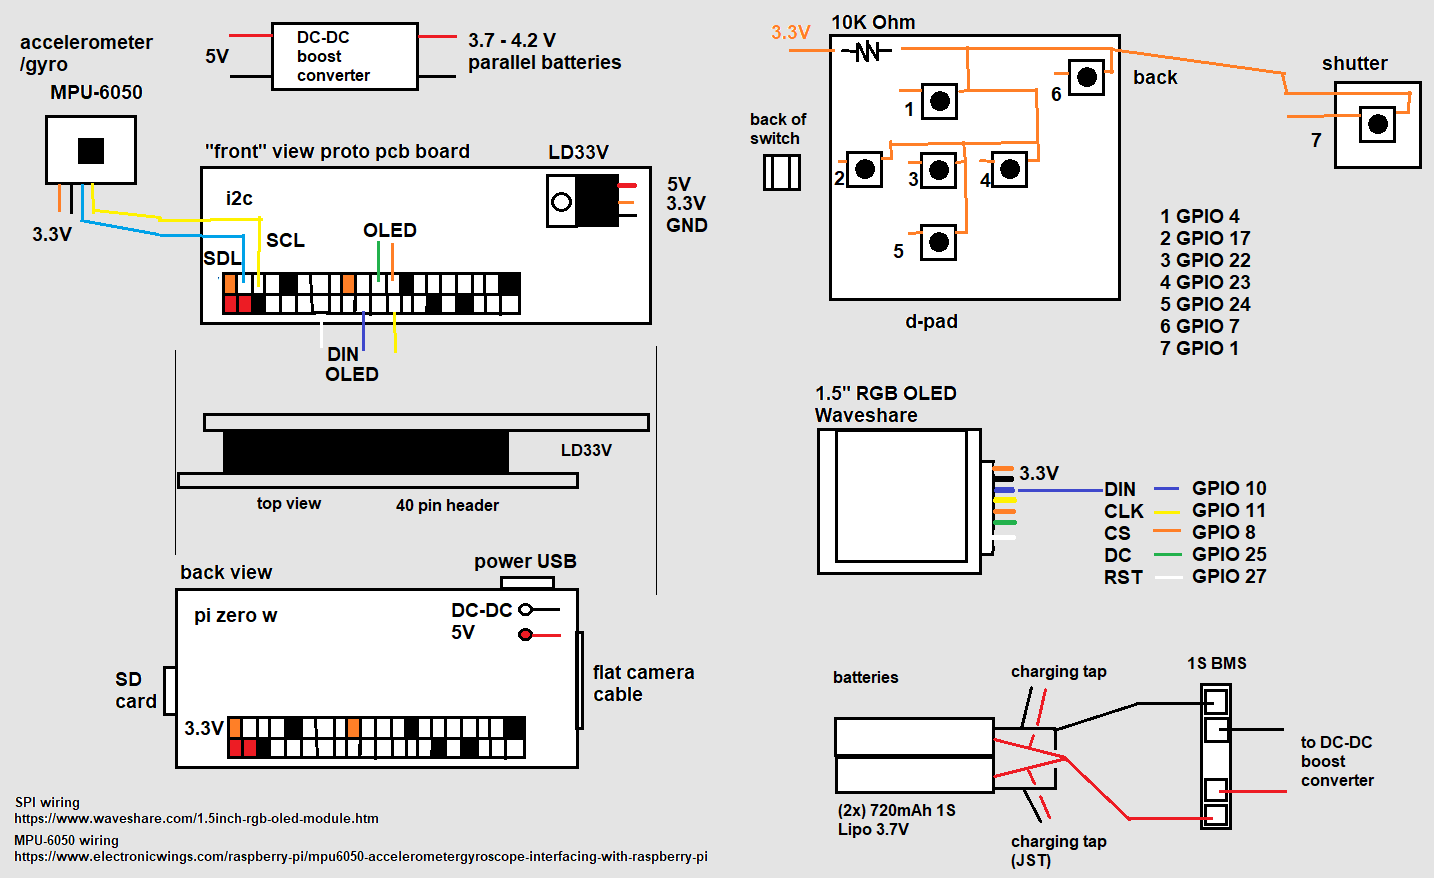
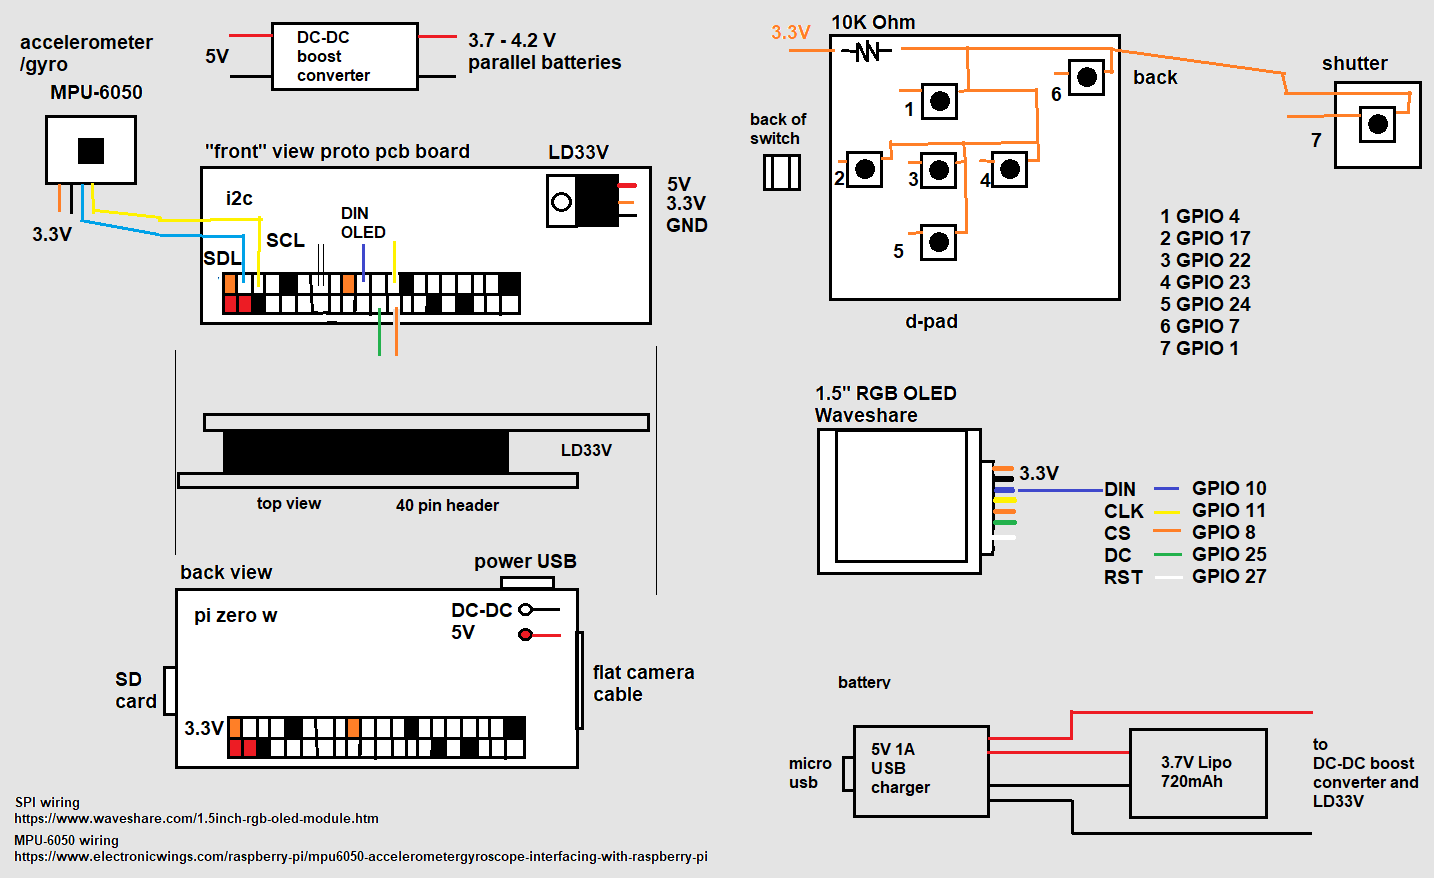
update diagrams, some progress, slowing down

Changed region(s): [[0.5523, 0.738, 1.0, 1.0], [0.2148, 0.2153, 0.3068, 0.4305]]

diff --git a/DEVLOG.md b/DEVLOG.md
@@ -1,3 +1,17 @@
+12/10/2023
+
+1:56 AM
+
+At this point I've gotten a lot of the soldering done, I accidentally mirrored the OLED pins on the RPi GPIO at least they were just digital pins/not live ones eg. 5V or ground.
+
+I still have to finish soldering the buttons and test them
+
+Then update the design with regard to the hardware change and final dimensions
+
+The wiring is nasty unfortunately since the wires I'm using are thick and not grouped together like those ribbon cables that are joined
+
+
+
 12/09/2023
 
 12:47 AM
@@ -201,7 +215,21 @@ I need the body... but I also want to solder everything and program...
 
 ehh.... I think I'll put the JST plugs for the batteries on top of the camera in channels, then you just tape over them with black electrical tape to blend in... ugly but I don't want to make some hinge mechanism or deal with a balancing charger for two parallel cells
 
+11:22 PM
 
+decided to change battery to 2S series, 800mAh it's smaller capacity but easier with regard to wiring/charging run time will be 3-4 hours (absoultely exhausted by 4).
+
+means stepping down too vs. step up, bigger component
+
+I have these 1100mAh packs but they seem puffy despite not being used...
+
+Ugh... idk what to do. I have these USB charging boards, that would be nicer but it's 1 cell... largest 1S pack I have is the 720mAh set... so that's a run time just over 3 hours, but that's continous... I would think it's rare to keep a camera on that long.
+
+turn it on to do your shots, turn it off to walk somewhere
+
+Ugh... this cutoff voltage is too low for a lipo, it cuts off at 2.5V
+
+oh man... alright just so it's more legit I'll use the charging board since that's prettier, USB in but it will still require a time-based battery check
 
 ---
 

diff --git a/TASKLIST.md b/TASKLIST.md
@@ -5,17 +5,14 @@
 - [x] pick digital pins
 - [x] wire oled up (uses 3.3V power)
 
-- [ ] solder DC-DC boost convert to Pi/LD33V
-- [ ] solder OLED to proto board, align with RPi pins
-- [ ] solder LD33V to 10K Ohm resistor for buttons
+- [x] solder DC-DC boost convert to Pi/LD33V
+- [x] solder OLED to proto board, align with RPi pins
+- [x] solder LD33V to 10K Ohm resistor for buttons
 - [ ] solder buttons to proto board, align with RPi pins
-- [ ] solder Y-splitter for battery cells
-  - (2x) JST male plug (for charging)
-  - to 1S BMS for discharge, parallel connected, this goes to DC-DC boost converter 
 
 - [ ] design case
 
-- [ ] test OLED display output
+- [x] test OLED display output
 - [ ] bind buttons to runtime
 - [ ] design menu
 - [ ] build menu rendering state manager

diff --git a/README.md b/README.md
@@ -15,3 +15,7 @@ A pi zero camera body using the hq camera
 $185.00 (using 35mm lens, major components only)
 
 See `/camera/hardware` folder for more info
+
+### Disclaimer
+
+The 5V 1A micro usb charger's discharge cut off is very low around 2.5V so that is not relied upon for safety.

diff --git a/camera/hardware/README.md b/camera/hardware/README.md
@@ -2,8 +2,9 @@
 
 - $15.00 Pi Zero W
 - $75.00 Raspberry Pi HQ Camera
-- $15.00 (2) 720mAh 1S Lipo
+- $2.00 720mAh 1S Lipo
 - $0.80 DC-DC boost converter
+- $0.80 5V 1A usb charger
 - $0.12 LD33V step down converter
 - $19.00 1.5" RGB OLED
 - $60.00 35mm lens

diff --git a/PROJECT_TIME.md b/PROJECT_TIME.md
@@ -1,2 +1,3 @@
 12/08/2023 1.5 hrs
-12/09/2023 3.5 hrs
+12/09/2023 10.5 hrs
+12/10/2023 2 hrs
